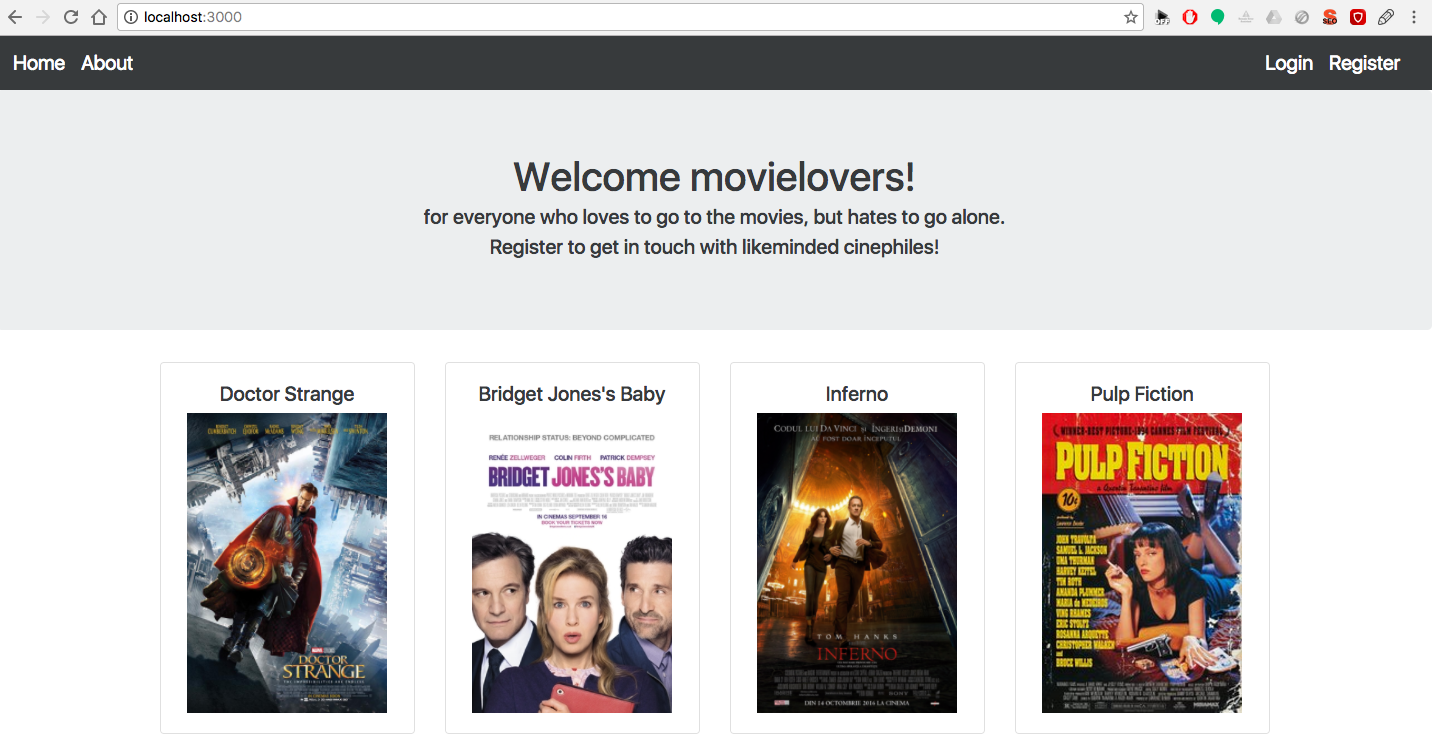
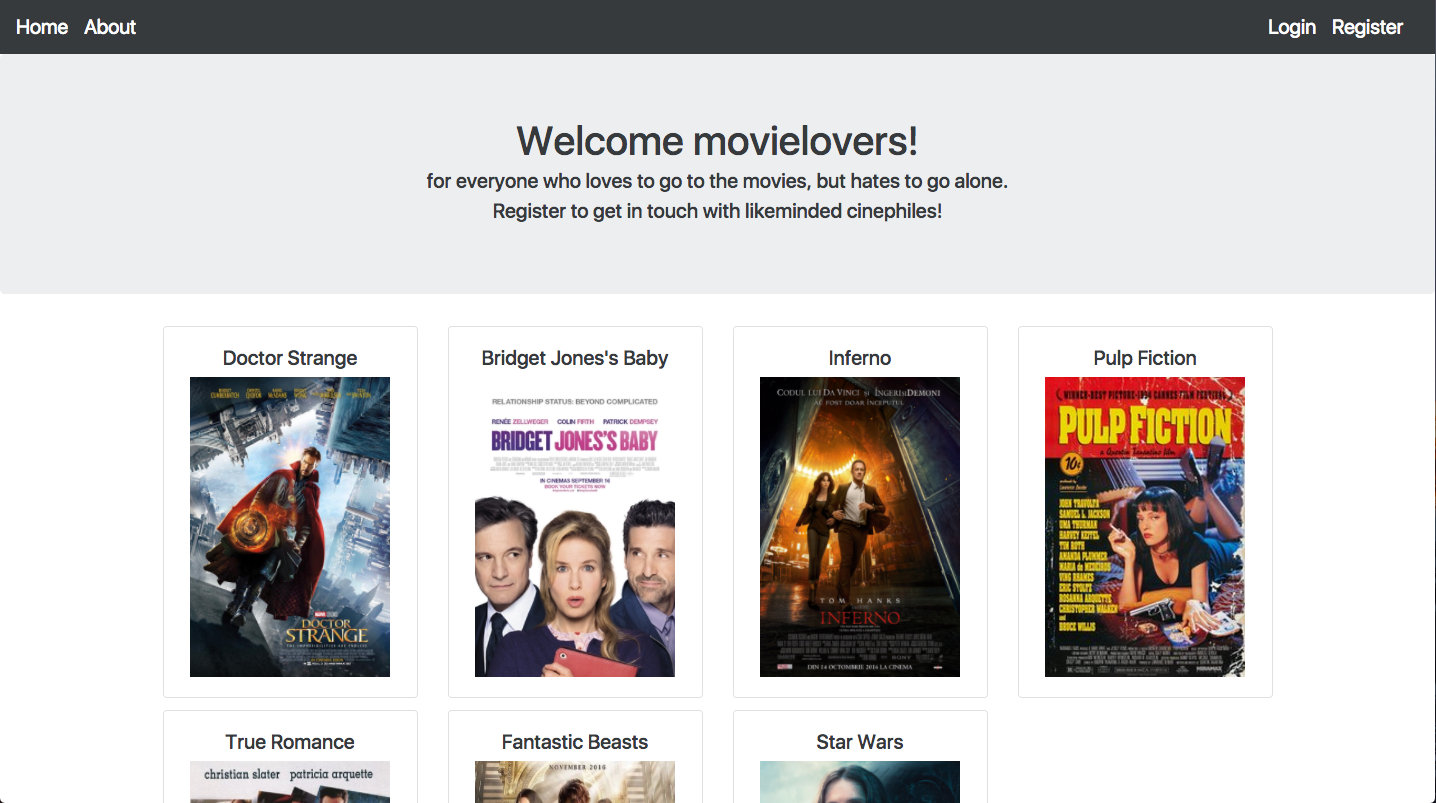
working on styling

diff --git a/public/css/stylesheet.css b/public/css/stylesheet.css
@@ -37,19 +37,18 @@ h1 {
   letter-spacing: 8px;
 }
 
+h2 {
+   color: black;
+   font-size: 18px;
+   margin-bottom: 30px;
+}
+
 h3 {
    font-size: 30px;
    margin-top: 70px;
    text-align: center;
    margin-bottom: 40px;
    font-family: 'Work Sans', sans-serif;
-
-}
-
-h2 {
-   color: black;
-   font-size: 18px;
-   margin-bottom: 30px;
 }
 
 h4 {
@@ -64,7 +63,6 @@ h5 {
   text-align: center;
   margin-bottom: 40px;
   font-family: 'Montserrat', sans-serif;
-
 }
 
 h6 {
@@ -84,18 +82,11 @@ a {
 p {
   font-size: 16px;
   text-align: center;
-  font-family:
-}
-
-.margin {
-  margin-bottom: 45px;
-  text-align: center;
 }
 
 div.container-fluid.bg-1 {
    margin-top: 0px;
    text-align: center;
-
 }
 
 .bg-1 {
@@ -163,11 +154,11 @@ a.btn.btn-default.btn-lg {
 
 footer.container-fluid.bg-5 {
    font-weight: bold;
+   background-color: #D3D3D3;
    font-family: sans-serif;
    padding-bottom: 20px;
    padding-top: 30px;
 }
-
 
 .col-md-6.text-center {
    padding-top: 2.5%;
